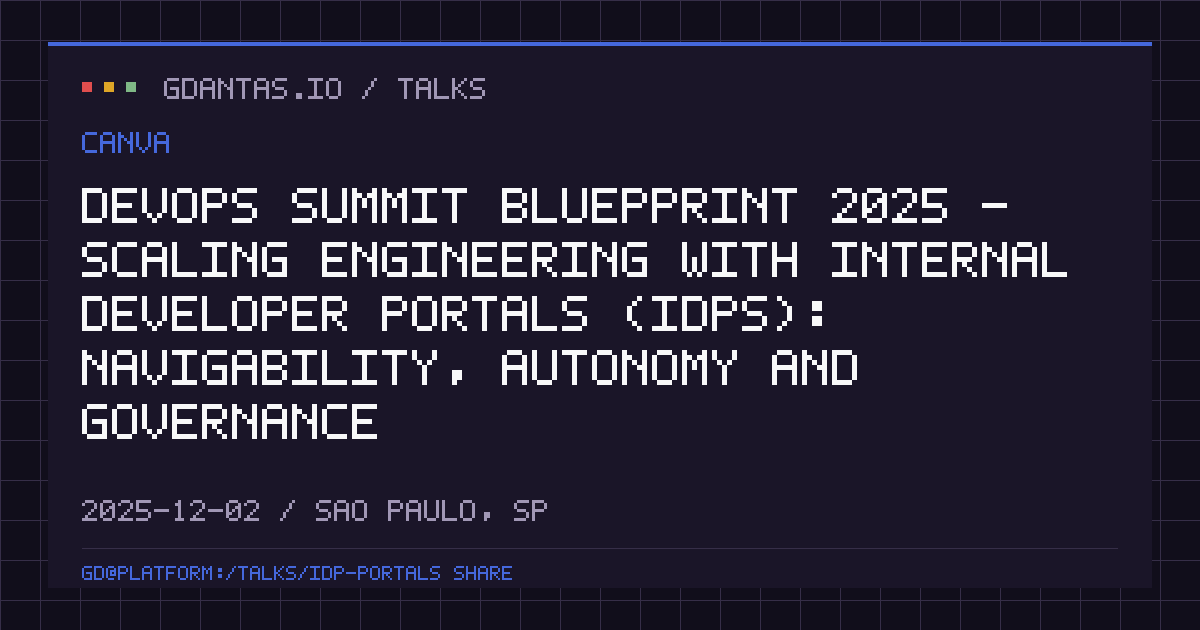
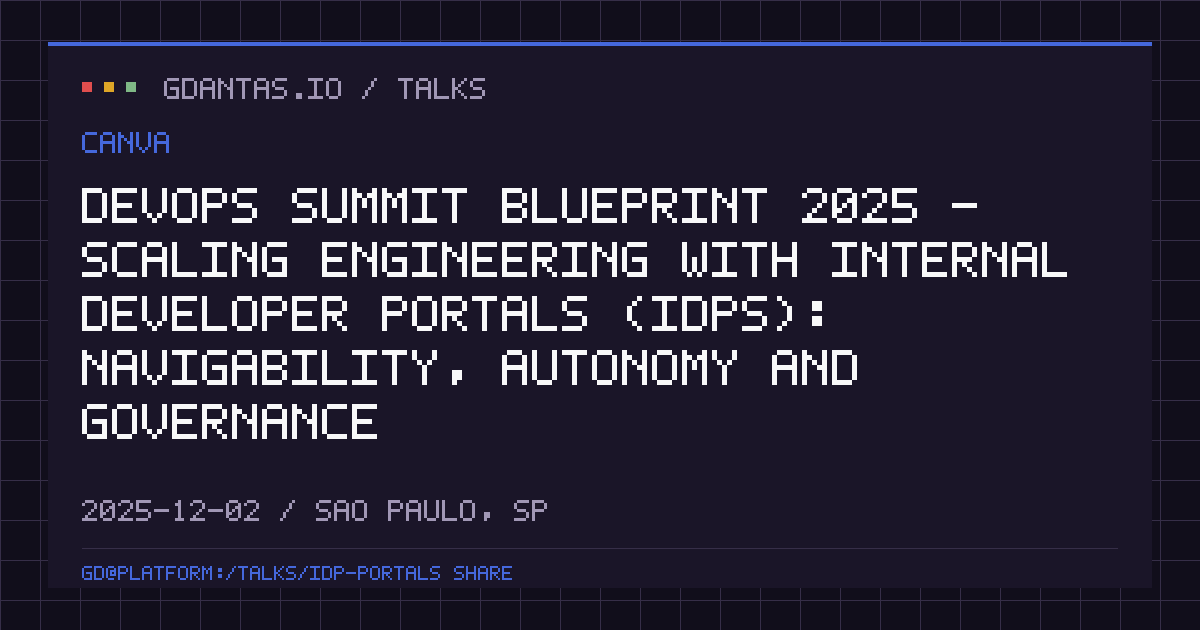
content: reaplica a voz das talks na camada de copy nova
A main passou a renderizar title/description das talks via
locales talks.items.<slug> (resolveTalkCopy), com presentations.json só
como fallback. Merge puro trazia de volta os "Slides da apresentação que
fiz no X" que essa branch tinha matado — então as frases-tese foram
portadas pros dois locales, incluindo a talk nova idp-hub-mcps.

- typo Bluepprint -> Blueprint também no title dos locales; OG do
  idp-portals regerado (título vai impresso no PNG)
- talks.home ficou órfão depois da unificação de talks na main: nada mais
  lê essas chaves, então saíram de pt/en

Changed region(s): [[0.555, 0.3016, 0.8325, 0.3619]]

diff --git a/lib/talk-copy.ts b/lib/talk-copy.ts
@@ -1,6 +1,5 @@
 // Resolve title/description de talks via locales, com fallback pro
-// presentations.json. Mesmo padrão do HomePage (`talks.home.<slug>`).
-// Catálogo completo: `talks.items.<slug>.{title,description}`.
+// presentations.json. Catálogo completo: `talks.items.<slug>.{title,description}`.
 
 export function resolveTalkCopy(
 	t: (key: string) => string,
